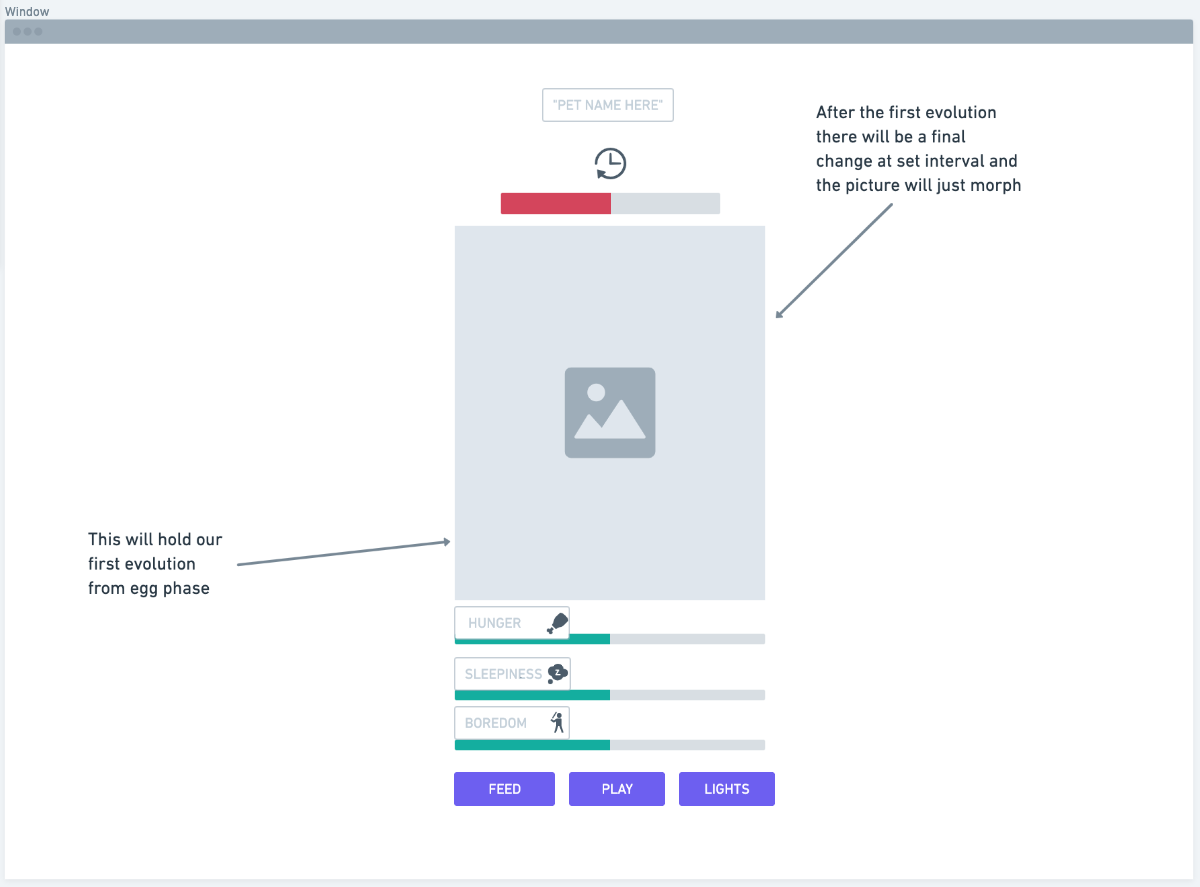
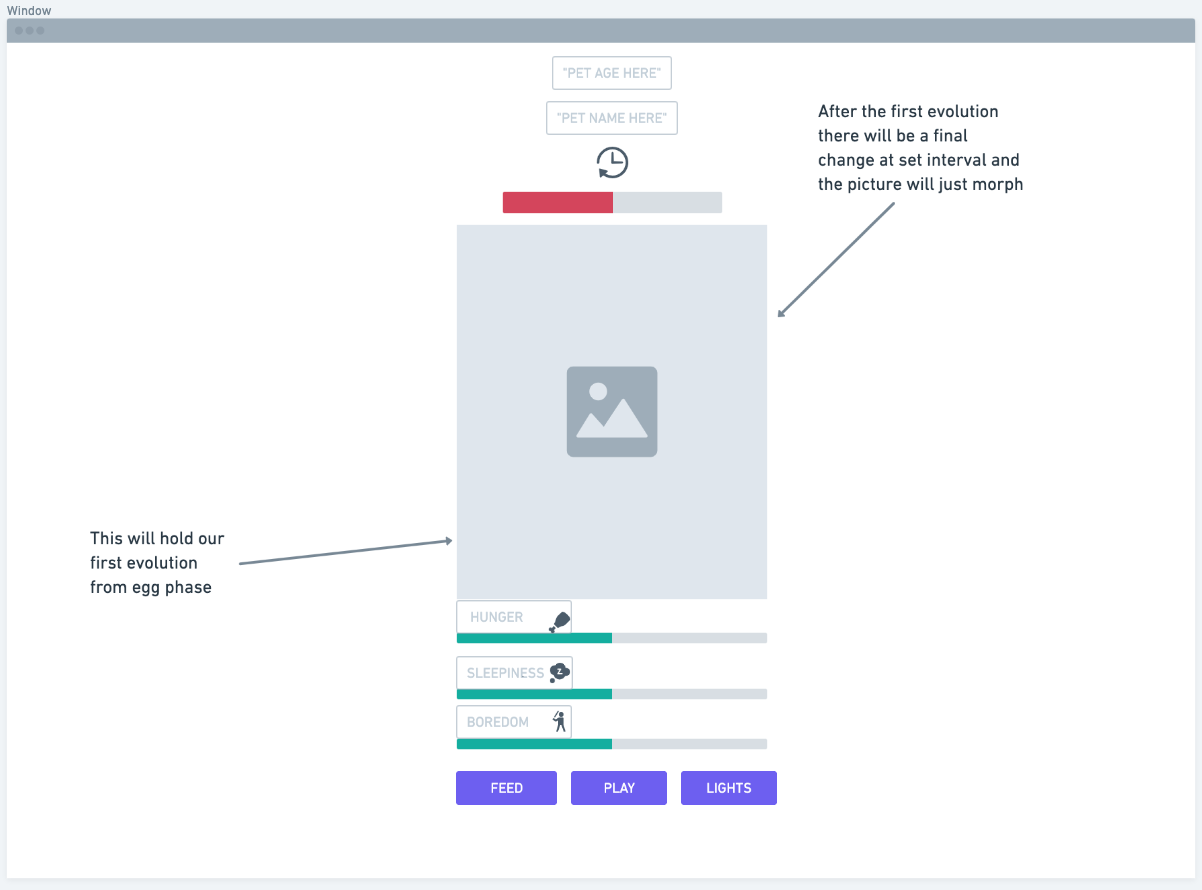
Added basic HTML based off wireframe and updated wireframe image with age included

diff --git a/tomagotchi.html b/tomagotchi.html
@@ -1,21 +1,54 @@
 <!DOCTYPE html>
 <html>
-<head>
-    <meta charset="utf-8">
-    <meta http-equiv="X-UA-Compatible" content="IE=edge">
-    <!-- Google Fonts -->
-    <!-- Main CSS -->
-    <link rel="stylesheet" href="styles/main.css">
-    <!-- jQuery -->
-    <script src="https://code.jquery.com/jquery-3.6.0.slim.min.js"></script>
-    <!-- Main JS -->
-    <script src="scripts/app.js" defer></script>
-    <title>Project 0: Tomagotchi!</title>
-</head>
+    <head>
+        <meta charset="utf-8">
+        <meta http-equiv="X-UA-Compatible" content="IE=edge">
+        <!-- Google Fonts -->
+        <!-- Main CSS -->
+        <link rel="stylesheet" href="styles/main.css">
+        <!-- jQuery -->
+        <script src="https://code.jquery.com/jquery-3.6.0.slim.min.js"></script>
+        <!-- Main JS -->
+        <script src="scripts/app.js" defer></script>
+        <title>Project 0: Tomagotchi!</title>
+    </head>
 <body>
 
-<header>
-</header>
+    <header>
+        <h1>Project 0: Tomagotchi!</h1>
+    </header>
+
+    <div id="pet_age">
+        <h3>
+            AGE:
+        </h3>
+    </div>
+
+    <div id="pet_name">
+        <h2>
+            Hello World! My name is...!
+        </h2>
+    </div>
+
+    <img id="pet_image" src="https://mobilebytes.com/wp-content/uploads/2017/10/ef3-placeholder-image.jpg" alt="pet_picture" height="500" width="500">
+
+    <div id="hunger_button">
+        <button>
+            HUNGER
+        </button>
+    </div>
+
+    <div id="play_button">
+        <button>
+            PLAY
+        </button>
+    </div>
+
+    <div id="lights_button">
+        <button>
+            LIGHTS
+        </button>
+    </div>
 
 </body>
 </html>
